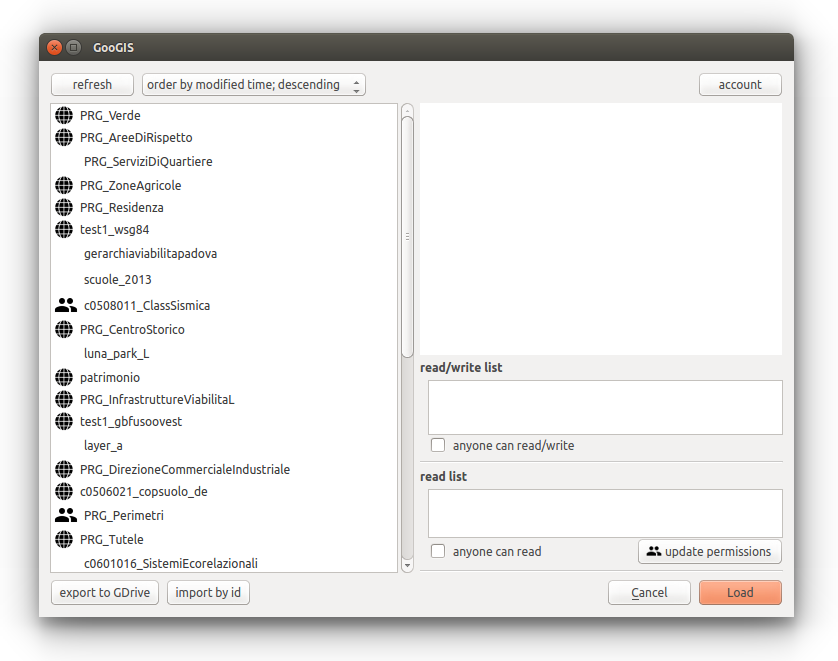
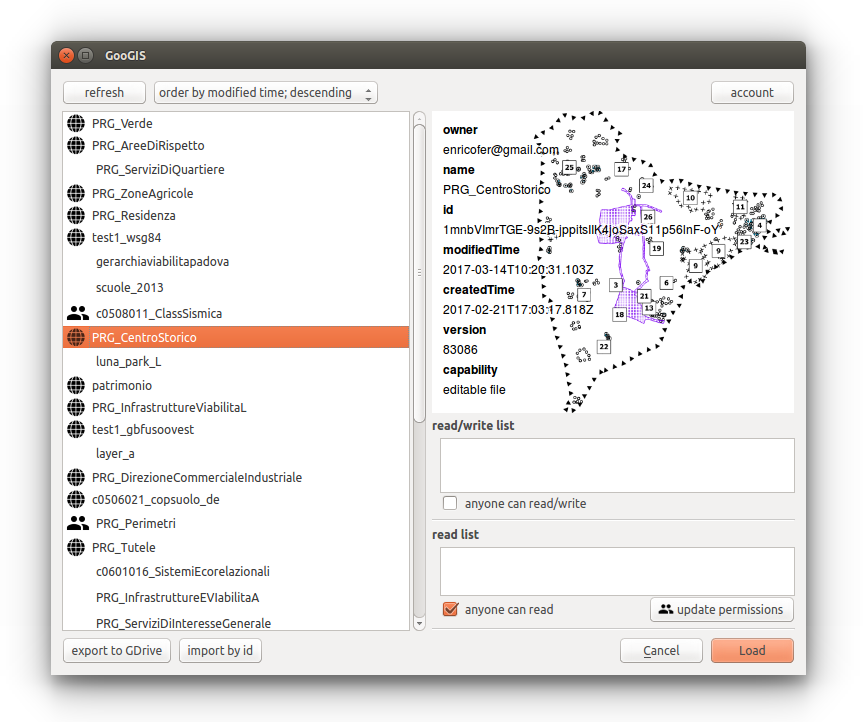
renew connection in service

diff --git a/services.py b/services.py
@@ -181,6 +181,16 @@ class service_drive:
     def isGooGisSheet(self,fileId):
         return 'description' in self.getFileMetadata(fileId).keys() and 'GOOGIS' in self.getFileMetadata(fileId)['description'].upper()
 
+    def renew_connection(self):
+        '''
+        when connection stay alive too long we have to rebuild service
+        '''
+        try:
+            self.list_files()
+        except:
+            print "renew authorization"
+            self.service_sheet.get_service()
+
     def list_files(self, mimeTypeFilter = 'application/vnd.google-apps.spreadsheet', shared=None, anyone=None, test=None, orderBy='modifiedTime desc', filename=None):
         '''
         A method to list GooGIS application files in client_id drive specifying sorting

diff --git a/gdrive_layer.py b/gdrive_layer.py
@@ -203,11 +203,7 @@ class GoogleDriveLayer(QObject):
         '''
         when connection stay alive too long we have to rebuild service
         '''
-        try:
-            self.service_sheet.sheet_cell("A1")
-        except:
-            print "renew authorization"
-            self.service_sheet.get_service()
+        self.service_drive.renew_connection()
 
 
     def update_from_subscription(self):

diff --git a/gdrive_provider.py b/gdrive_provider.py
@@ -390,6 +390,7 @@ class Google_Drive_Provider:
         return permissions
 
     def viewMetadata(self,item,prev):
+        self.myDrive.renew_connection()
         self.dlg.anyoneCanRead.setChecked(False)
         self.dlg.anyoneCanWrite.setChecked(False)
         current_spreadsheet_id =  self.available_sheets[item.text()]['id']
